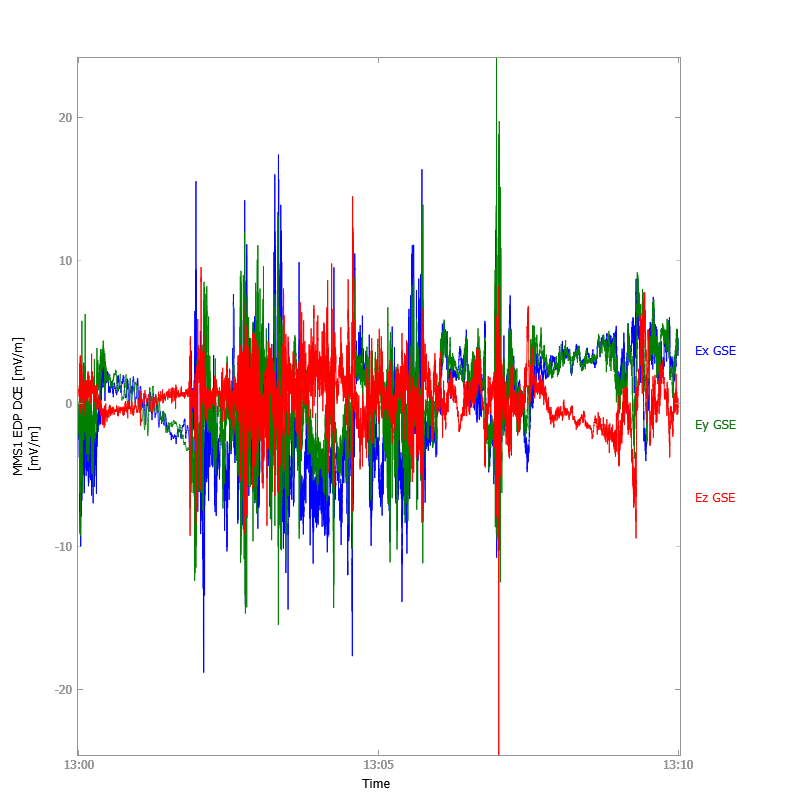
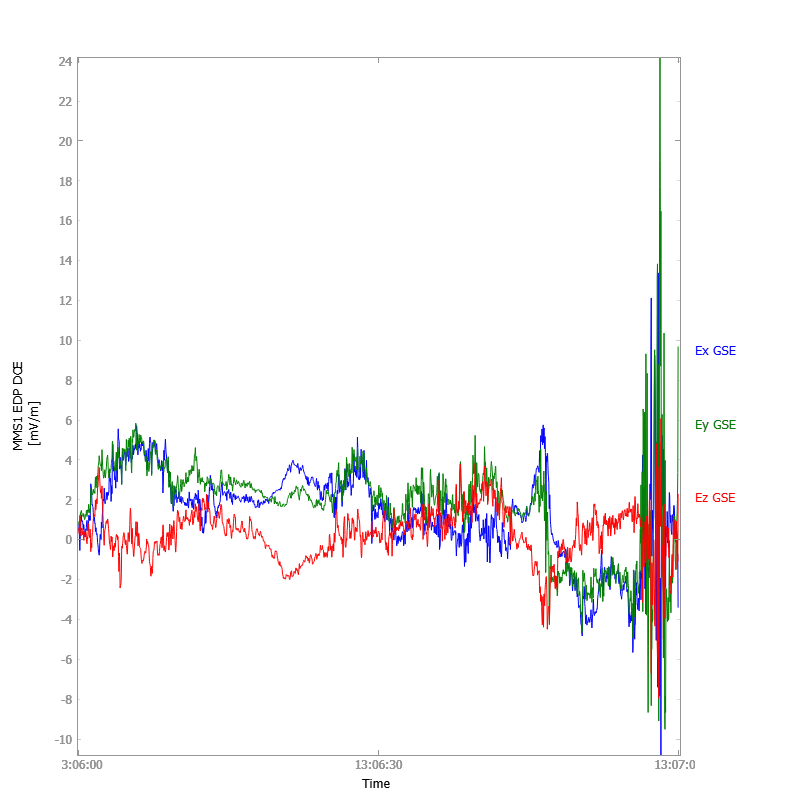
Fixing MMS examples

diff --git a/docs/source/conf.py b/docs/source/conf.py
@@ -83,13 +83,7 @@ intersphinx_mapping = {
     "scipy": ("https://docs.scipy.org/doc/scipy/reference/", None),
     "pandas": ("https://pandas.pydata.org/pandas-docs/stable/", None),
     "astropy": ("https://docs.astropy.org/en/stable/", None),
-    "pytplot": ("https://pytplot.readthedocs.io/", None),
-    "SPEDAS": ("http://spedas.org/", None),
-    "plasmapy": ("https://docs.plasmapy.org/", None),
-    "Solar Orbiter": ("https://pyspedas.readthedocs.io/en/latest/solo.html", None),
-    "MMS": ("https://pyspedas.readthedocs.io/en/latest/mms.html", None),
-    "THEMIS": ("https://pyspedas.readthedocs.io/en/latest/themis.html", None),
-    "Parker Solar Probe": ("https://pyspedas.readthedocs.io/en/latest/psp.html", None),
+    "pytplot": ("https://pytplot.readthedocs.io/en/latest/", None),
     "sphinx_automodapi": (
         "https://sphinx-automodapi.readthedocs.io/en/latest/",
         None,

diff --git a/docs/source/mms.rst b/docs/source/mms.rst
@@ -24,6 +24,7 @@ FGM Example
 .. image:: _static/mms_fgm.png
    :scale: 75 %
    :align: center
+   :class: imgborder
 
 Search-coil Magnetometer (SCM)
 --------------------------------
@@ -42,6 +43,7 @@ SCM Example
 .. image:: _static/mms_scm.png
    :scale: 75 %
    :align: center
+   :class: imgborder
 
 Level 3 FGM+SCM Data (FSM)
 -----------------------------
@@ -54,12 +56,13 @@ FSM Example
    
    import pyspedas
    from pytplot import tplot
-   pyspedas.ace.mfi(trange=['2018-11-5', '2018-11-6'])
-   tplot(['BGSEc', 'Magnitude'])
+   pyspedas.mms.fsm(trange=['2015-10-16/13:06', '2015-10-16/13:07'], time_clip=True)
+   tplot(['mms1_fsm_b_mag_brst_l3', 'mms1_fsm_b_gse_brst_l3'])
 
 .. image:: _static/mms_fsm.png
    :scale: 75 %
    :align: center
+   :class: imgborder
 
 Electric field Double Probe (EDP)
 -----------------------------------
@@ -72,12 +75,13 @@ EDP Example
    
    import pyspedas
    from pytplot import tplot
-   pyspedas.ace.mfi(trange=['2018-11-5', '2018-11-6'])
-   tplot(['BGSEc', 'Magnitude'])
+   pyspedas.mms.edp(trange=['2015-10-16/13:06', '2015-10-16/13:07'], time_clip=True)
+   tplot('mms1_edp_dce_gse_fast_l2')
 
 .. image:: _static/mms_edp.png
    :scale: 75 %
    :align: center
+   :class: imgborder
 
 Electron Drift Instrument (EDI)
 ---------------------------------
@@ -90,12 +94,13 @@ EDI Example
    
    import pyspedas
    from pytplot import tplot
-   pyspedas.ace.mfi(trange=['2018-11-5', '2018-11-6'])
-   tplot(['BGSEc', 'Magnitude'])
+   pyspedas.mms.edi(trange=['2016-10-16/21:00', '2016-10-16/22:00'], time_clip=True)
+   tplot(['mms1_edi_vdrift_gse_srvy_l2', 'mms1_edi_e_gse_srvy_l2'])
 
 .. image:: _static/mms_edi.png
    :scale: 75 %
    :align: center
+   :class: imgborder
 
 Fly's Eye Energetic Particle Sensor (FEEPS)
 --------------------------------------------
@@ -108,12 +113,13 @@ FEEPS Example
    
    import pyspedas
    from pytplot import tplot
-   pyspedas.ace.mfi(trange=['2018-11-5', '2018-11-6'])
-   tplot(['BGSEc', 'Magnitude'])
+   pyspedas.mms.feeps(trange=['2015-10-16', '2015-10-17'])
+   tplot('mms1_epd_feeps_srvy_l2_electron_intensity_omni_spin')
 
 .. image:: _static/mms_feeps.png
    :scale: 75 %
    :align: center
+   :class: imgborder
 
 Energetic Ion Spectrometer (EIS)
 -----------------------------------
@@ -126,12 +132,13 @@ EIS Example
    
    import pyspedas
    from pytplot import tplot
-   pyspedas.ace.mfi(trange=['2018-11-5', '2018-11-6'])
-   tplot(['BGSEc', 'Magnitude'])
+   pyspedas.mms.eis(trange=['2015-10-16', '2015-10-17'])
+   tplot(['mms1_epd_eis_srvy_l2_extof_proton_flux_omni', 'mms1_epd_eis_srvy_l2_extof_proton_flux_omni_spin'])
 
 .. image:: _static/mms_eis.png
    :scale: 75 %
    :align: center
+   :class: imgborder
 
 Active Spacecraft Potential Control (ASPOC)
 --------------------------------------------
@@ -144,12 +151,13 @@ ASPOC Example
    
    import pyspedas
    from pytplot import tplot
-   pyspedas.ace.mfi(trange=['2018-11-5', '2018-11-6'])
-   tplot(['BGSEc', 'Magnitude'])
+   pyspedas.mms.aspoc(trange=['2015-10-16', '2015-10-17'])
+   tplot(['mms1_aspoc_ionc_l2', 'mms1_asp1_ionc_l2', 'mms1_asp2_ionc_l2'])
 
 .. image:: _static/mms_aspoc.png
    :scale: 75 %
    :align: center
+   :class: imgborder
 
 Fast Plasma Investigation (FPI)
 --------------------------------
@@ -162,12 +170,13 @@ FPI Example
    
    import pyspedas
    from pytplot import tplot
-   pyspedas.ace.mfi(trange=['2018-11-5', '2018-11-6'])
-   tplot(['BGSEc', 'Magnitude'])
+   pyspedas.mms.fpi(trange=['2015-10-16', '2015-10-17'], datatype='des-moms')
+   tplot(['mms1_des_energyspectr_omni_fast', 'mms1_des_bulkv_gse_fast', 'mms1_des_numberdensity_fast'])
 
 .. image:: _static/mms_fpi.png
    :scale: 75 %
    :align: center
+   :class: imgborder
 
 Hot Plasma Composition Analyzer (HPCA)
 ---------------------------------------
@@ -180,12 +189,13 @@ HPCA Example
    
    import pyspedas
    from pytplot import tplot
-   pyspedas.ace.mfi(trange=['2018-11-5', '2018-11-6'])
-   tplot(['BGSEc', 'Magnitude'])
+   pyspedas.mms.hpca(trange=['2015-10-16', '2015-10-17'], datatype='moments')
+   tplot(['mms1_hpca_hplus_number_density', 'mms1_hpca_hplus_ion_bulk_velocity', 'mms1_hpca_hplus_scalar_temperature'])
 
 .. image:: _static/mms_hpca.png
    :scale: 75 %
    :align: center
+   :class: imgborder
 
 Magnetic Ephemeris Coordinates (MEC)
 -------------------------------------
@@ -198,12 +208,13 @@ MEC Example
    
    import pyspedas
    from pytplot import tplot
-   pyspedas.ace.mfi(trange=['2018-11-5', '2018-11-6'])
-   tplot(['BGSEc', 'Magnitude'])
+   pyspedas.mms.mec(trange=['2015-10-16', '2015-10-17'])
+   tplot(['mms1_mec_r_gsm', 'mms1_mec_v_gsm'])
 
 .. image:: _static/mms_mec.png
    :scale: 75 %
    :align: center
+   :class: imgborder
 
 .. autofunction:: pyspedas.mms.state
 
@@ -214,9 +225,10 @@ State Example
    
    import pyspedas
    from pytplot import tplot
-   pyspedas.ace.mfi(trange=['2018-11-5', '2018-11-6'])
-   tplot(['BGSEc', 'Magnitude'])
+   pyspedas.mms.state(trange=['2020-12-16', '2020-12-17'])
+   tplot(['mms1_defeph_pos', 'mms1_defeph_vel'])
 
 .. image:: _static/mms_state.png
    :scale: 75 %
    :align: center
+   :class: imgborder

diff --git a/docs/source/index.rst b/docs/source/index.rst
@@ -12,7 +12,7 @@ pySPEDAS is an implementation of the SPEDAS framework for Python.
 
 The Space Physics Environment Data Analysis Software (SPEDAS) framework is written in IDL and contains data loading, data analysis and data plotting tools for various scientific missions (NASA, NOAA, etc.) and ground magnetometers.
 
-pySPEDAS makes creating multi-mission, multi-instrument figures simple, e.g., to create a figure showing magnetometer data from Solar Orbiter, Parker Solar Probe, MMS, and THEMIS,
+pySPEDAS and pytplot make creating multi-mission, multi-instrument figures simple, e.g., to create a figure showing magnetometer data from Solar Orbiter, Parker Solar Probe, MMS, and THEMIS,
 
 .. code-block:: python
    

diff --git a/docs/source/ace.rst b/docs/source/ace.rst
@@ -19,6 +19,8 @@ Example
 .. image:: _static/ace_mfi.png
    :scale: 75 %
    :align: center
+   :class: imgborder
+
 
 Solar Wind Electron, Proton and Alpha Monitor (SWEPAM)
 --------------------------------------------------------
@@ -37,6 +39,8 @@ Example
 .. image:: _static/ace_swepam.png
    :scale: 75 %
    :align: center
+   :class: imgborder
+
 
 Electron, Proton, and Alpha-particle Monitor (EPAM)
 ----------------------------------------------------

diff --git a/docs/source/goes.rst b/docs/source/goes.rst
@@ -1,5 +1,5 @@
 Geostationary Operational Environmental Satellite (GOES)
-===================================================
+==========================================================
 The routines in this module can be used to load data from the GOES mission.
 
 Magnetometer (FGM)
